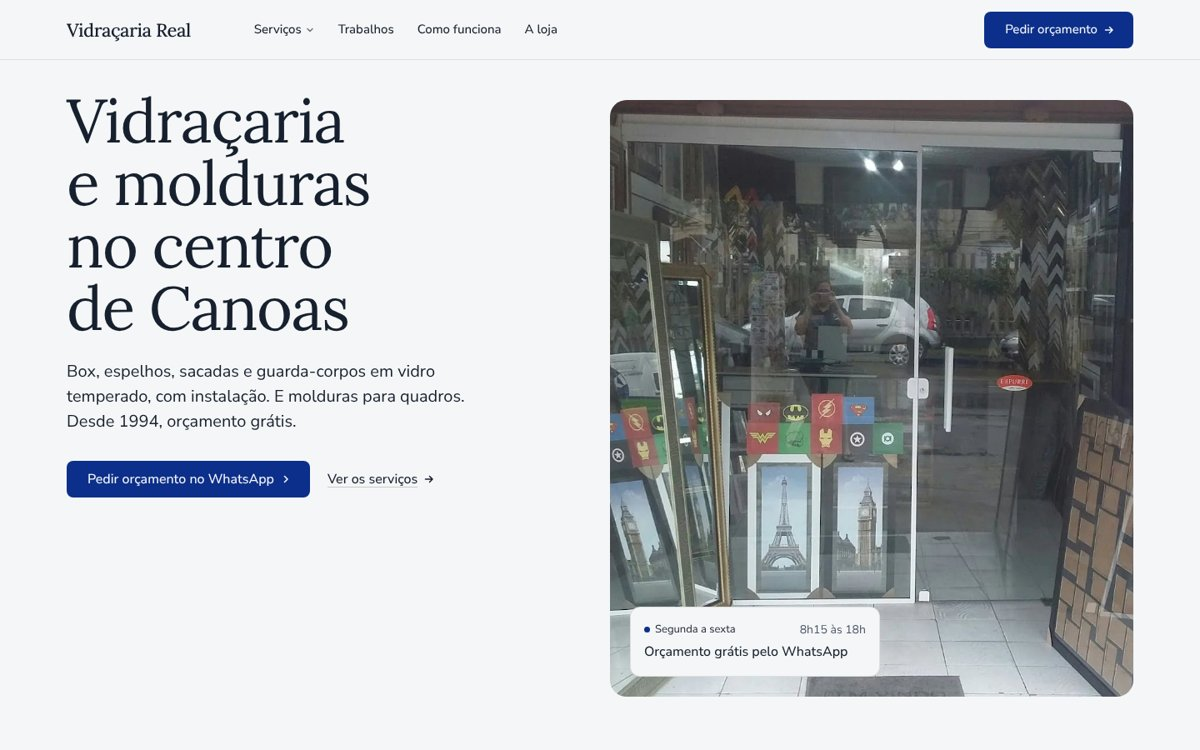
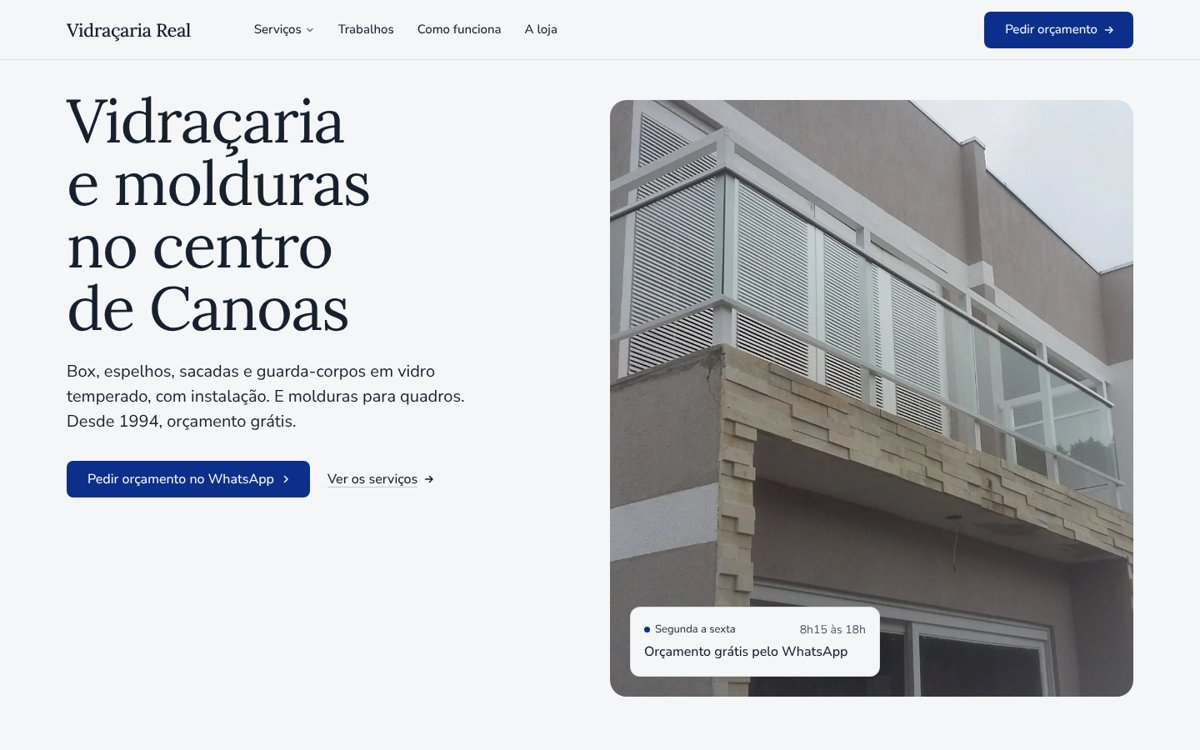
Prévia da Real: foto de capa nítida de uma sacada de vidro instalada
Claude-Session: https://claude.ai/code/session_01BucXToaDXgnpeatRSNxMeH

Changed region(s): [[0.4933, 0.1227, 0.9558, 0.9507]]

diff --git a/vidracaria-real/index.html b/vidracaria-real/index.html
@@ -88,7 +88,7 @@
               <a href="#servicos">Espelhos<span>No tamanho da parede</span></a>
             </div>
             <a class="menu-card span-3 start-10" href="#trabalhos">
-              <div class="panel"><img class="frame__img" src="img/sacadas-vidro.jpg" alt="Sacadas com guarda-corpo de vidro em um prédio de dois andares" width="1200" height="675"></div>
+              <div class="panel"><img class="frame__img" src="img/sacadas-vidro.jpg" alt="Sacadas com guarda-corpo de vidro em um prédio de dois andares" width="2400" height="1350"></div>
               <span class="t-card">Trabalhos entregues</span>
               <span class="t-small muted">Sacadas, escadas e quadros</span>
             </a>
@@ -120,7 +120,7 @@
         </div>
       </div>
       <div class="hero__media span-6 start-7">
-        <img src="img/loja-fachada.jpg" alt="Fachada da loja com porta de vidro, quadros na vitrine e molduras na parede" width="1200" height="1031" style="--ly-pos: 50% 40%" fetchpriority="high" data-source="client" data-subject="a loja da Real">
+        <img src="img/sacada-vidro-hero.jpg" alt="Sacada de uma casa fechada com guarda-corpo e painéis de vidro temperado" width="2048" height="1152" style="--ly-pos: 40% 50%" fetchpriority="high" data-source="client" data-subject="sacada instalada pela Real">
         <div class="ly-float">
           <div class="ly-float__row"><span class="ly-live">Segunda a sexta</span><span>8h15 às 18h</span></div>
           <div class="ly-float__title">Orçamento grátis pelo WhatsApp</div>
@@ -157,7 +157,7 @@
     <div class="wrap">
       <div class="section-head"><h2 id="trabalhos-h">Obras e quadros entregues</h2><p>Uma sacada de prédio fechada com vidro temperado, e a parede de quadros emoldurados na loja.</p></div>
       <div class="grid work">
-        <figure class="frame frame--photo span-6"><img class="frame__img" src="img/sacadas-vidro.jpg" alt="Sacadas de prédio com guarda-corpo de vidro" width="1200" height="675" loading="lazy" data-source="client"></figure>
+        <figure class="frame frame--photo span-6"><img class="frame__img" src="img/sacadas-vidro.jpg" alt="Sacadas de prédio com guarda-corpo de vidro" width="2400" height="1350" loading="lazy" data-source="client"></figure>
         <figure class="frame frame--photo span-6"><img class="frame__img" src="img/quadros-emoldurados.jpg" alt="Parede da loja com quadros emoldurados e um espelho de moldura dourada" width="1200" height="1926" loading="lazy" data-source="client"></figure>
       </div>
     </div>
